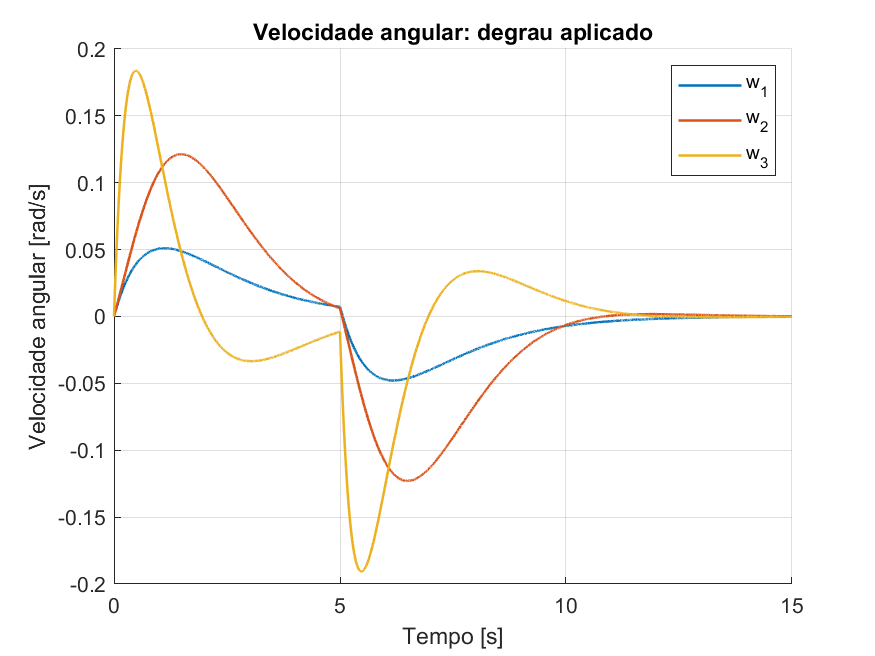
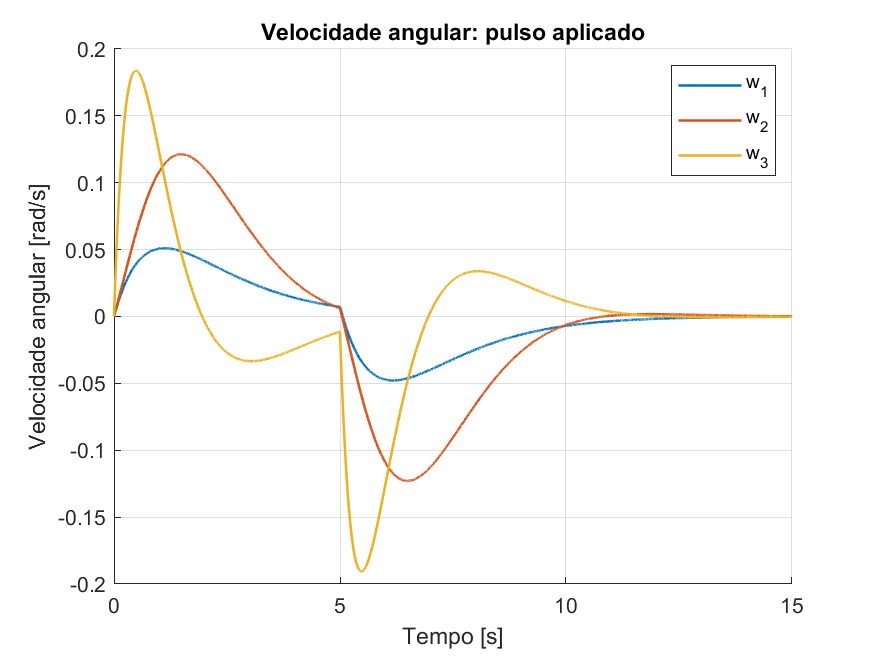
fioaejo

Changed region(s): [[0.2777, 0.0305, 0.7406, 0.0915]]

diff --git a/m_aloc2.m b/m_aloc2.m
@@ -126,7 +126,7 @@ q=[1 0 0 0 0 0 0];
 passo=0.001;
 t=0:passo:15;
 u=zeros(length(t),3);
-u(1:5000,:)=ones(5000,3);
+u(1:5000,2)=ones(5000,1);
 % u(:,1)=zeros(length(t),1);
 % u(:,3)=zeros(length(t),1);
 [y]=lsim(sys_aloc,u,t,q(2:end));
@@ -138,13 +138,13 @@ hold on
 plot(t,y(:,4),LineWidth=1.20)
 plot(t,y(:,5),LineWidth=1.20)
 plot(t,y(:,6),LineWidth=1.20)
-title("Velocidade angular: degrau aplicado")
+title("Velocidade angular: pulso aplicado")
 xlabel("Tempo [s]")
 ylabel("Velocidade angular [rad/s]")
 legend('w_1','w_2','w_3','Location','northeast')
 hold off
 grid on
-baseFileName = sprintf('Image_%s.png', "aloc_ut_vel");
+baseFileName = sprintf('Image_%s.png', "aloc_u2_vel");
 fullFileName = fullfile("Imagens\Controle Moderno", baseFileName);
 saveas(6, fullFileName);
 
@@ -153,13 +153,13 @@ hold on
 plot(t,y(:,1),LineWidth=1.20)
 plot(t,y(:,2),LineWidth=1.20)
 plot(t,y(:,3),LineWidth=1.20)
-title("Posição: degrau aplicado")
+title("Posição: pulso aplicado")
 xlabel("Tempo [s]")
 ylabel("Posição angular [rad]")
 legend('q_1','q_2','q_3','Location','northeast')
 hold off
 grid on
-baseFileName = sprintf('Image_%s.png', "aloc_ut_pos");
+baseFileName = sprintf('Image_%s.png', "aloc_u2_pos");
 fullFileName = fullfile("Imagens\Controle Moderno", baseFileName);
 saveas(7, fullFileName);
 
